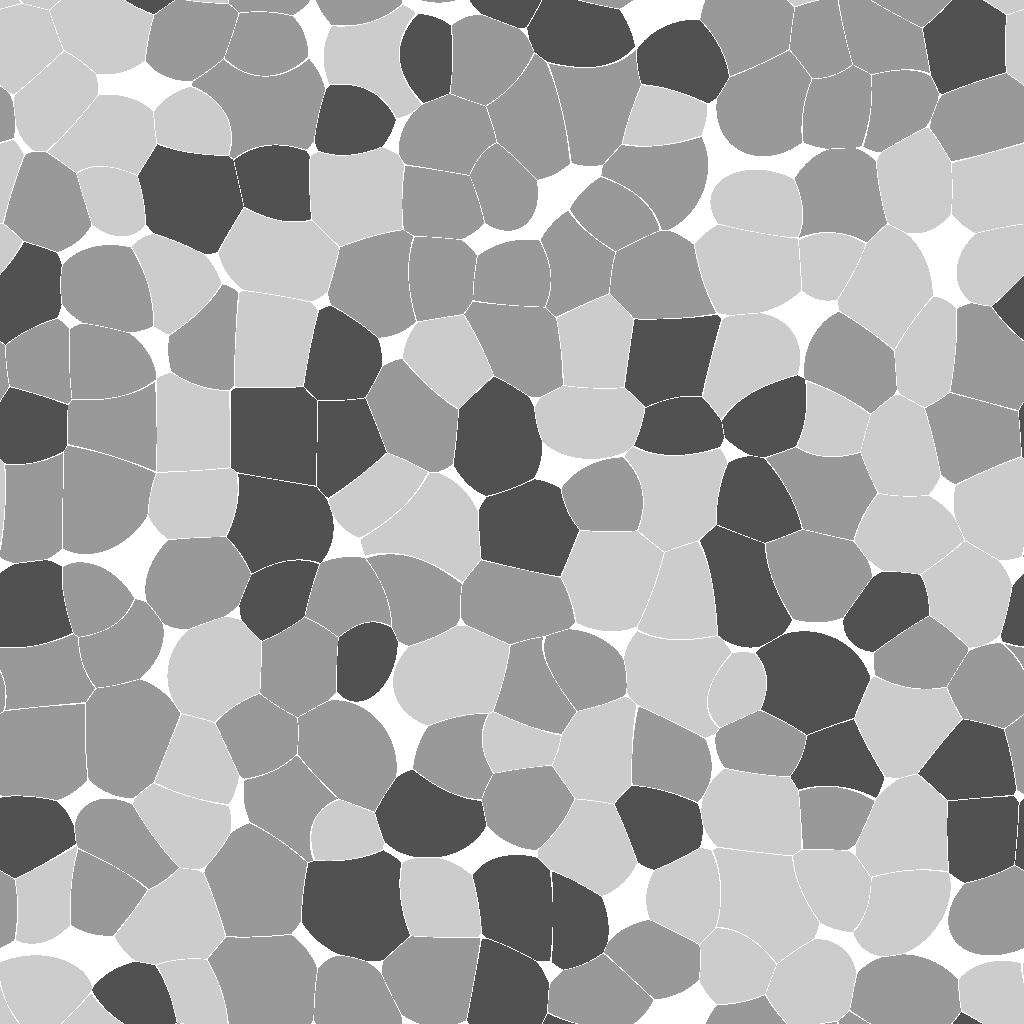
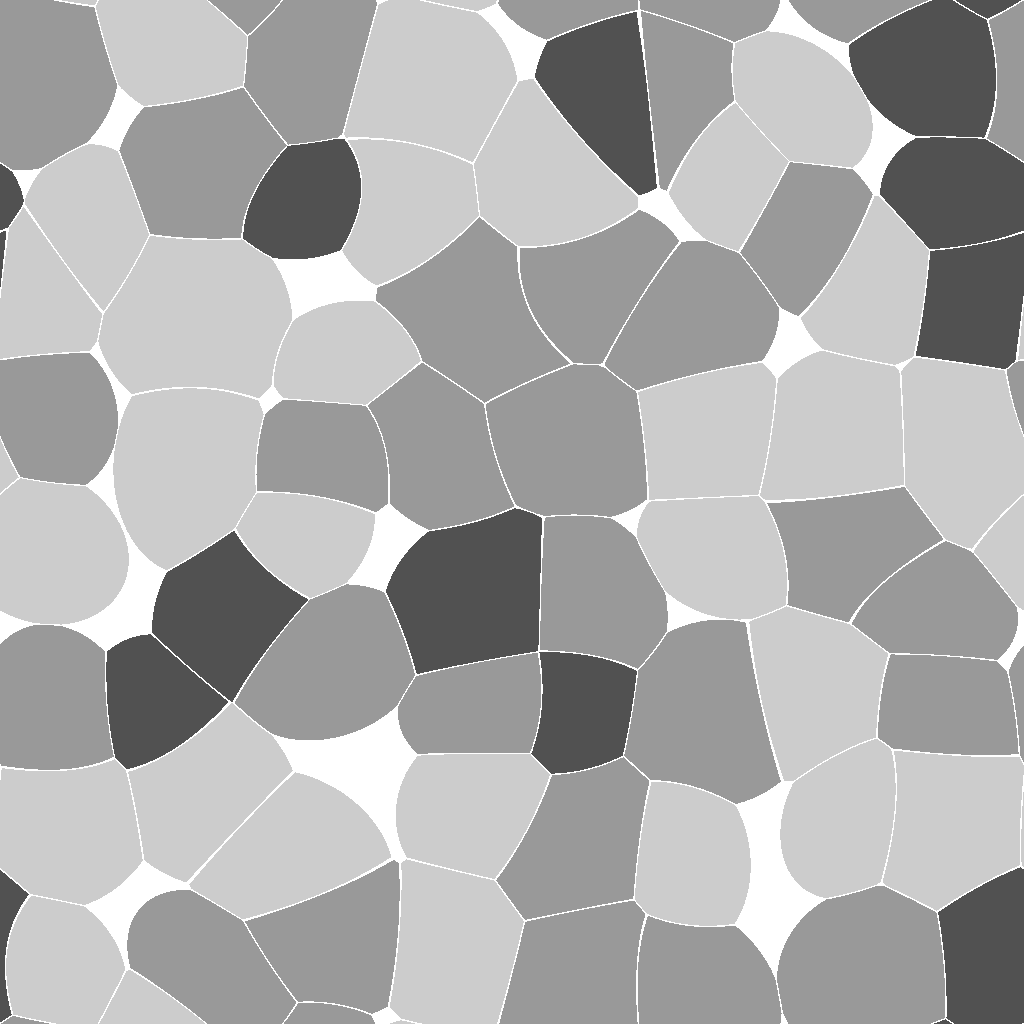
Wreck 20% bigger; Rocky Shark stones stand out (refs #27)
- The sunken liner is built 1.2x its design size: the scale lives in
  ShipWreck.Frame, so the hull, rooms, furniture, colliders, kudzu and
  lights grow together. The ground shaping works in metres along the
  unscaled axes; light ranges are scaled by hand.
- Rocky Shark: big rounded stones set into the hide (14 on the head, 9 per
  section, 6 on the tail), well apart and two thirds proud of the skin, kept
  off the belly, holes, pores and eyes. They flash and come off with their
  part. The pebble texture is regenerated with 64 bigger stones (was 169)
  and deeper seams; pebble_texture.py now writes into the repo it is in.

Claude-Session: https://claude.ai/code/session_01SvNoygjDzcdjP2q52Z3UTW

diff --git a/godot/Code/Creatures/RockyShark.cs b/godot/Code/Creatures/RockyShark.cs
@@ -213,6 +213,8 @@ public partial class RockyShark : PartCreature
 		}
 		part.Go.AddChild( node );
 		node.Scale = Vector3.One * (radius * 2f * U.In);
+		var stony = new List<(MeshInstance3D Mesh, int Stones)>();
+		var keepClear = new List<MeshInstance3D>();
 		foreach ( var mesh in node.FindChildren( "*", "MeshInstance3D", true, false ).OfType<MeshInstance3D>() )
 		{
 			var name = mesh.Name.ToString();
@@ -263,7 +265,116 @@ public partial class RockyShark : PartCreature
 				mesh.MaterialOverride = pebbly ? PebbleSkin() : Shapes.Material( tint );
 				part.Renderers.Add( (mesh, tint) );
 				if ( name == "Jaw" ) jaw = mesh;
+				var stones = name == "Head" ? 14 : name.StartsWith( "Segment" ) ? 9 : name == "Tail" ? 6 : 0;
+				if ( stones > 0 ) stony.Add( (mesh, stones) );
+				else if ( !pebbly ) keepClear.Add( mesh );
+				continue;
 			}
+		}
+		// Holes, pores, eyes and pupils (every mesh that is not skin) stay uncovered.
+		foreach ( var mesh in node.FindChildren( "*", "MeshInstance3D", true, false ).OfType<MeshInstance3D>() )
+		{
+			var name = mesh.Name.ToString();
+			if ( name.StartsWith( "Hole" ) || name.StartsWith( "Pore" ) || name.StartsWith( "Tongue" ) || name.StartsWith( "Pupil" ) || name is "EyeL" or "EyeR" )
+				keepClear.Add( mesh );
+		}
+		foreach ( var (mesh, stones) in stony ) AddStones( part, mesh, stones, keepClear );
+	}
+
+	// ---- Stones standing out of the hide (playtest: the pebble skin alone read flat) ----
+
+	/// <summary> Pebble colours, as in the skin texture: the shark's tan, greys, slate blue, rust and cream. </summary>
+	static readonly Color[] StoneColours =
+	{
+		new( 0.66f, 0.52f, 0.35f ), new( 0.58f, 0.44f, 0.30f ), new( 0.60f, 0.60f, 0.58f ), new( 0.44f, 0.53f, 0.60f ),
+		new( 0.24f, 0.27f, 0.31f ), new( 0.72f, 0.42f, 0.18f ), new( 0.84f, 0.79f, 0.67f ), new( 0.45f, 0.30f, 0.21f ),
+	};
+	static readonly SphereMesh StoneMesh = new() { Radius = 1f, Height = 2f, RadialSegments = 10, Rings = 5 };
+	/// <summary> Each skin mesh's triangles (three points each, in its own space) and their running area, read once. </summary>
+	static readonly Dictionary<Mesh, (Vector3[] Faces, float[] Area)> skinFaces = new();
+	static readonly Dictionary<Mesh, Vector3[]> clearPoints = new();
+
+	/// <summary> Up to a few hundred of a mesh's vertices, spread through it (enough to keep stones off it), read once. </summary>
+	static Vector3[] ClearPoints( Mesh mesh )
+	{
+		if ( clearPoints.TryGetValue( mesh, out var points ) ) return points;
+		var faces = mesh.GetFaces();
+		var step = Math.Max( 1, faces.Length / 400 );
+		points = Enumerable.Range( 0, (faces.Length + step - 1) / step ).Select( i => faces[i * step] ).ToArray();
+		clearPoints[mesh] = points;
+		return points;
+	}
+
+	/// <summary>
+	/// A few big rounded stones set into a skin mesh, well apart, a third sunk so they bulge out: on the top and
+	/// sides (not the white belly), clear of the radiation holes, pores and eyes. They tint and flash with the part
+	/// and come off with it.
+	/// </summary>
+	void AddStones( Part part, MeshInstance3D skin, int count, List<MeshInstance3D> keepClear )
+	{
+		if ( skin.Mesh is null ) return;
+		if ( !skinFaces.TryGetValue( skin.Mesh, out var surface ) )
+		{
+			var faces = skin.Mesh.GetFaces();
+			var area = new float[faces.Length / 3];
+			var total = 0f;
+			for ( var i = 0; i < area.Length; i++ )
+			{
+				total += 0.5f * (faces[i * 3 + 1] - faces[i * 3]).Cross( faces[i * 3 + 2] - faces[i * 3] ).Length();
+				area[i] = total;
+			}
+			skinFaces[skin.Mesh] = surface = (faces, area);
+		}
+		if ( surface.Area.Length == 0 || surface.Area[^1] <= 0f ) return;
+		var box = skin.Mesh.GetAabb();
+		var thickness = MathF.Min( box.Size.X, MathF.Min( box.Size.Y, box.Size.Z ) );
+		// What must stay visible, as points in the skin's own space: their vertices, not their boxes, since the
+		// pores of a section are one mesh spread all over it.
+		var toSkin = skin.GlobalTransform.AffineInverse();
+		var clear = new List<Vector3>();
+		foreach ( var m in keepClear )
+		{
+			if ( !IsInstanceValid( m ) || m.Mesh is null ) continue;
+			var into = toSkin * m.GlobalTransform;
+			foreach ( var point in ClearPoints( m.Mesh ) ) clear.Add( into * point );
+		}
+		var placed = new List<(Vector3 At, float Radius)>();
+		var materials = new Dictionary<int, StandardMaterial3D>();
+		for ( var attempt = 0; attempt < count * 12 && placed.Count < count; attempt++ )
+		{
+			// A random point on the skin, every bit of area equally likely.
+			var pick = Rng.Float( 0f, surface.Area[^1] );
+			var index = Array.BinarySearch( surface.Area, pick );
+			if ( index < 0 ) index = Math.Min( ~index, surface.Area.Length - 1 );
+			var a = surface.Faces[index * 3];
+			var b = surface.Faces[index * 3 + 1];
+			var c = surface.Faces[index * 3 + 2];
+			var normal = (b - a).Cross( c - a );
+			if ( normal.LengthSquared() < 1e-12f ) continue;
+			normal = normal.Normalized();
+			// Whichever way the triangle winds, point the normal out of the body.
+			if ( normal.Dot( (a + b + c) / 3f - box.GetCenter() ) < 0f ) normal = -normal;
+			if ( normal.Y < -0.2f ) continue;   // not underneath: the belly is white paint
+			float u = Rng.Float(), v = Rng.Float();
+			if ( u + v > 1f ) { u = 1f - u; v = 1f - v; }
+			var at = a + (b - a) * u + (c - a) * v;
+			var size = thickness * Rng.Float( 0.1f, 0.16f );
+			var reach = size * 1.3f;
+			if ( clear.Any( k => k.DistanceSquaredTo( at ) < reach * reach ) ) continue;
+			if ( placed.Any( q => q.At.DistanceTo( at ) < (q.Radius + size) * 1.9f ) ) continue;   // well apart
+			placed.Add( (at, size) );
+			// A rounded, slightly flattened stone, turned at random about the normal, two thirds of it standing out.
+			var side = normal.Cross( MathF.Abs( normal.Y ) < 0.9f ? Vector3.Up : Vector3.Right ).Normalized().Rotated( normal, Rng.Float( 0f, MathF.Tau ) );
+			var across = normal.Cross( side );
+			var height = size * 0.62f;
+			var basis = new Basis( side * size * Rng.Float( 0.9f, 1.25f ), normal * height, across * size );
+			var colour = Rng.Int( 0, StoneColours.Length - 1 );
+			if ( !materials.TryGetValue( colour, out var material ) )
+				materials[colour] = material = Shapes.Material( StoneColours[colour] );
+			var stone = new MeshInstance3D { Name = "Stone", Mesh = StoneMesh, MaterialOverride = material };
+			skin.AddChild( stone );
+			stone.Transform = new Transform3D( basis, at + normal * height * 0.35f );
+			part.Renderers.Add( (stone, StoneColours[colour]) );
 		}
 	}
 

diff --git a/godot/Code/Game/ShipWreck.cs b/godot/Code/Game/ShipWreck.cs
@@ -15,12 +15,20 @@ public static class ShipWreck
 	public const float Roll = 27f;
 	public const float Pitch = -2.5f;
 	public const float HalfLength = 48f;
+	/// <summary>
+	/// How much bigger than its design the ship is built (playtest: 20%, so it is easier to move about in). Ship space
+	/// stays in design units: the scale is in <see cref="Frame"/>, so the hull, rooms, furniture, colliders and lights
+	/// all grow together.
+	/// </summary>
+	public const float Scale = 1.2f;
 	const float FloorB = 4f, FloorA = 8.5f, DeckMain = 13f, Wall = 0.35f, Slab = 0.35f;
 
 	/// <summary> True on the wreck site once the ship has been placed (the ground then shapes itself round it). </summary>
 	public static bool Placed { get; private set; }
-	/// <summary> Ship space to world. </summary>
+	/// <summary> Ship space to world (turned, scaled by <see cref="Scale"/>, placed). </summary>
 	public static Transform3D Frame { get; private set; }
+	/// <summary> The ship's turn alone (Frame without the scale). </summary>
+	static Basis turn = Basis.Identity;
 	public static Node3D Root { get; private set; }
 
 	/// <summary> Half the beam at a point along the ship: a long straight middle, a fine bow, a rounded stern. </summary>
@@ -36,9 +44,10 @@ public static class ShipWreck
 	{
 		var basis = new Basis( Vector3.Right, MathX.Rad( Roll ) ) * new Basis( Vector3.Back, MathX.Rad( Pitch ) );
 		// The low side's lower window row sits just at the sand, so its broken windows are doorways in.
-		var low = basis * new Vector3( 0f, 5.2f, 8f );
+		var low = basis * new Vector3( 0f, 5.2f, 8f ) * Scale;
 		var origin = new Vector3( SeaTerrain.PlainCentre.X, 0.3f - low.Y, SeaTerrain.PlainCentre.Y );
-		Frame = new Transform3D( basis, origin );
+		turn = basis;
+		Frame = new Transform3D( basis * Basis.FromScale( Vector3.One * Scale ), origin );
 		Placed = true;
 	}
 
@@ -55,24 +64,25 @@ public static class ShipWreck
 	/// </summary>
 	public static float ShapeGround( float x, float z, float h )
 	{
-		var b = Frame.Basis;
+		// Worked in metres along the ship's own (unscaled) axes; ship-space sizes are multiplied by Scale.
+		var b = turn;
 		var o = Frame.Origin;
 		var up = b * Vector3.Up;
 		var dx0 = x - o.X; var dz0 = z - o.Z;
 		// Where a vertical line here meets the plane of the hull's bottom.
 		var t = o.Y - (up.X * dx0 + up.Z * dz0) / up.Y;
 		var p = new Vector3( x, t, z ) - o;
-		var lx = p.Dot( b * Vector3.Right );
-		var lz = p.Dot( b * Vector3.Back );
+		var lx = p.Dot( b * Vector3.Right ) / Scale;   // ship space (design units)
+		var lz = p.Dot( b * Vector3.Back ) / Scale;
 		var ox = MathF.Max( 0f, MathF.Abs( lx ) - (HalfLength - 0.5f) );
 		var oz = MathF.Max( 0f, MathF.Abs( lz ) - HalfBeam( MathX.Clamp( lx, -HalfLength, HalfLength ) ) );
-		var outside = MathF.Sqrt( ox * ox + oz * oz );
+		var outside = MathF.Sqrt( ox * ox + oz * oz ) * Scale;   // metres
 		if ( outside < 0.6f )
 		{
 			// In the breach the sand runs in to the deck B floor, so you can walk in off the sea bed.
 			if ( MathF.Abs( lx ) < 5.5f && lz > 2f )
 			{
-				var floorB = o.Y - (up.X * dx0 + up.Z * dz0 - (FloorB + Slab * 0.5f)) / up.Y;
+				var floorB = o.Y - (up.X * dx0 + up.Z * dz0 - (FloorB + Slab * 0.5f) * Scale) / up.Y;
 				return MathF.Min( h, floorB - 0.05f );
 			}
 			return MathF.Min( h, t - 0.8f );
@@ -186,7 +196,7 @@ public static class ShipWreck
 		level.AddChild( Root );
 		var kit = new Kit( Root );
 		// "Down" in ship space: the way a hanging thing or a sliding plate goes (the ship is heeled, gravity is not).
-		var down = Frame.Basis.Inverse() * Vector3.Down;
+		var down = (Frame.Basis.Inverse() * Vector3.Down).Normalized();   // the frame is scaled: a unit direction
 		var hang = new Basis( new Quaternion( Vector3.Down, down ) );
 
 		Hull( kit, random, R );
@@ -874,7 +884,7 @@ public static class ShipWreck
 	{
 		void Light( Vector3 at, Color c, float energy, float range )
 		{
-			var l = new OmniLight3D { LightColor = c, LightEnergy = energy, OmniRange = range, ShadowEnabled = false };
+			var l = new OmniLight3D { LightColor = c, LightEnergy = energy, OmniRange = range * Scale, ShadowEnabled = false };   // a light's reach ignores the node's scale
 			Root.AddChild( l );
 			l.Position = at;
 		}

diff --git a/Tools/blender/pebble_texture.py b/Tools/blender/pebble_texture.py
@@ -13,7 +13,8 @@ import zlib
 
 import numpy as np
 
-OUT = r"C:/Users/smitt/Documents/zombie_survival/godot/assets/materials/creature"
+# The repo's own folder, wherever it is checked out.
+OUT = os.path.join(os.path.dirname(os.path.abspath(__file__)), "..", "..", "godot", "assets", "materials", "creature")
 N = 1024
 SEED = 29
 
@@ -58,7 +59,7 @@ def value_noise(rng, cells, n=N):
 def build():
     rng = np.random.default_rng(SEED)
     # Stones: a jittered grid on a torus, with uneven sizes from a per-stone weight (power diagram).
-    k = 13
+    k = 8   # stones across a tile: fewer and bigger than the first version's 13 (playtest: they didn't stand out)
     pts, wts = [], []
     for gy in range(k):
         for gx in range(k):
@@ -139,8 +140,9 @@ def build():
 
     # Normal map from the domes (tileable gradients).
     h = height * 1.0 + (k_own == 0) * fine * 0.04
-    gx = (np.roll(h, -1, 1) - np.roll(h, 1, 1)) * N / 64
-    gy = (np.roll(h, -1, 0) - np.roll(h, 1, 0)) * N / 64
+    # Steep: the stones should read as standing proud of the hide (was N / 64).
+    gx = (np.roll(h, -1, 1) - np.roll(h, 1, 1)) * N / 36
+    gy = (np.roll(h, -1, 0) - np.roll(h, 1, 0)) * N / 36
     nz = np.ones_like(h)
     norm = np.sqrt(gx * gx + gy * gy + nz * nz)
     normal = np.stack([-gx / norm, gy / norm, nz / norm], -1) * 0.5 + 0.5
